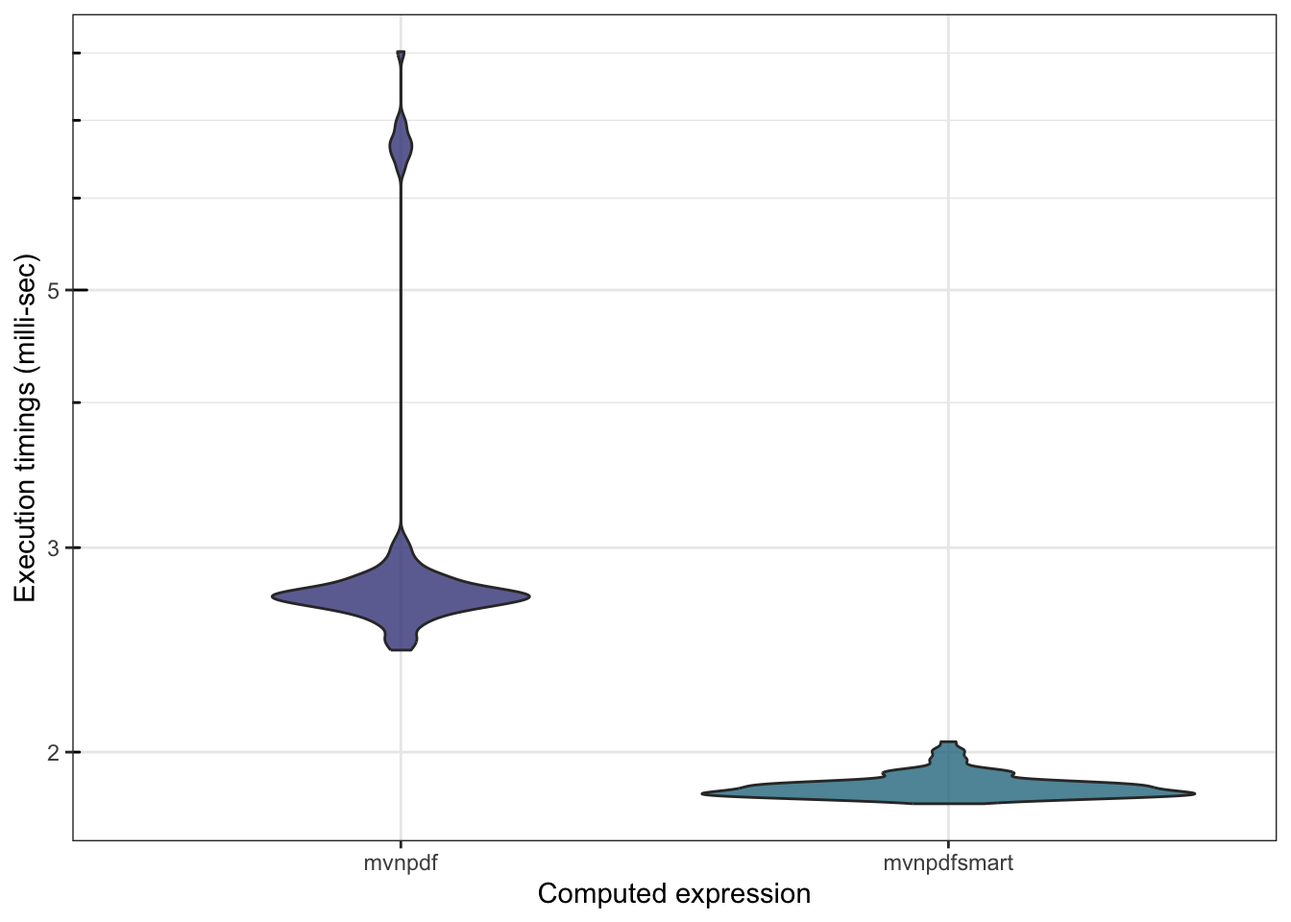
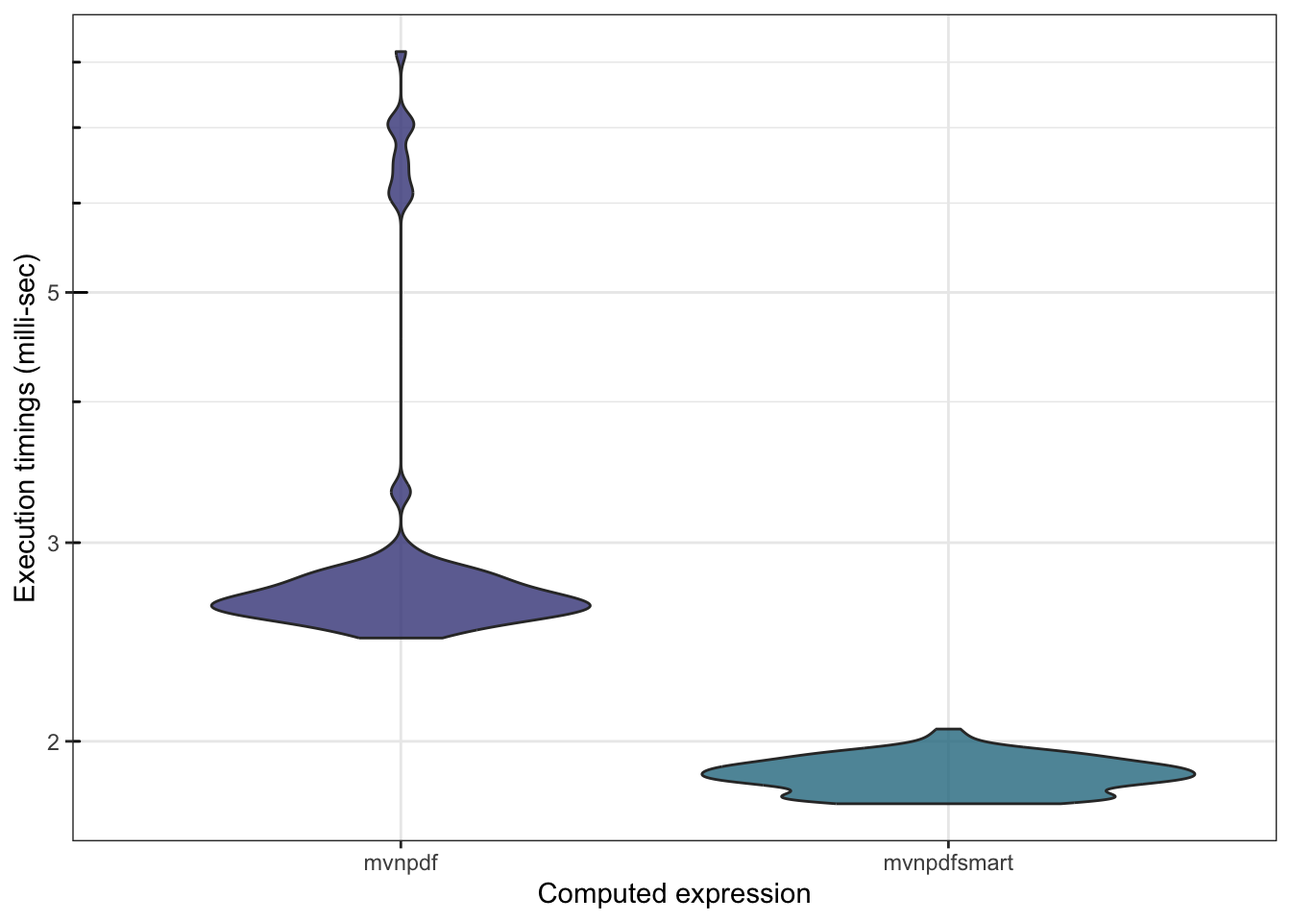
prerequisites added

diff --git a/_book/index.html b/_book/index.html
@@ -87,15 +87,25 @@ We will show you that the package is also an excellent tool for developing code.
 <li><p>a <em>C++ compiler</em> (such as <code>gcc</code> or <code>clang</code> - native on UNIX systems,
 for Windows users we recommend installing
 <a href="https://cran.r-project.org/bin/windows/Rtools/">Rtools</a>, for
-Mac users it may be necessary to install the macOS tool chain — namely <code>Xcode Command Line Tools</code> and <code>gfortran</code> — used by <svg aria-hidden="true" role="img" viewbox="0 0 581 512" style="height:1em;width:1.13em;vertical-align:-0.125em;margin-left:auto;margin-right:auto;font-size:inherit;fill:currentColor;overflow:visible;position:relative;"><path d="M581 226.6C581 119.1 450.9 32 290.5 32S0 119.1 0 226.6C0 322.4 103.3 402 239.4 418.1V480h99.1v-61.5c24.3-2.7 47.6-7.4 69.4-13.9L448 480h112l-67.4-113.7c54.5-35.4 88.4-84.9 88.4-139.7zm-466.8 14.5c0-73.5 98.9-133 220.8-133s211.9 40.7 211.9 133c0 50.1-26.5 85-70.3 106.4-2.4-1.6-4.7-2.9-6.4-3.7-10.2-5.2-27.8-10.5-27.8-10.5s86.6-6.4 86.6-92.7-90.6-87.9-90.6-87.9h-199V361c-74.1-21.5-125.2-67.1-125.2-119.9zm225.1 38.3v-55.6c57.8 0 87.8-6.8 87.8 27.3 0 36.5-38.2 28.3-87.8 28.3zm-.9 72.5H365c10.8 0 18.9 11.7 24 19.2-16.1 1.9-33 2.8-50.6 2.9v-22.1z"></path></svg> as detailed <a href="https://thecoatlessprofessor.com/software-releases/macrtools-v0.0.1-released-automatic-macos-r-compiled-toolchain-installation-from-within-r/">here</a><a class="footnote-ref" tabindex="0" data-toggle="popover" data-content='&lt;p&gt;updating and automating &lt;a href="http://thecoatlessprofessor.com/programming/r-compiler-tools-for-rcpp-on-os-x/"&gt;this toolchain installation&lt;/a&gt;&lt;/p&gt;'><sup>1</sup></a></p></li>
-</ul>
-<ul>
+Mac users it may be necessary to install the macOS tool chain as detailed <a href="%5Bici%5D(https://mac.r-project.org/tools/)">here</a></p></li>
 <li><p>the following <svg aria-hidden="true" role="img" viewbox="0 0 581 512" style="height:1em;width:1.13em;vertical-align:-0.125em;margin-left:auto;margin-right:auto;font-size:inherit;fill:currentColor;overflow:visible;position:relative;"><path d="M581 226.6C581 119.1 450.9 32 290.5 32S0 119.1 0 226.6C0 322.4 103.3 402 239.4 418.1V480h99.1v-61.5c24.3-2.7 47.6-7.4 69.4-13.9L448 480h112l-67.4-113.7c54.5-35.4 88.4-84.9 88.4-139.7zm-466.8 14.5c0-73.5 98.9-133 220.8-133s211.9 40.7 211.9 133c0 50.1-26.5 85-70.3 106.4-2.4-1.6-4.7-2.9-6.4-3.7-10.2-5.2-27.8-10.5-27.8-10.5s86.6-6.4 86.6-92.7-90.6-87.9-90.6-87.9h-199V361c-74.1-21.5-125.2-67.1-125.2-119.9zm225.1 38.3v-55.6c57.8 0 87.8-6.8 87.8 27.3 0 36.5-38.2 28.3-87.8 28.3zm-.9 72.5H365c10.8 0 18.9 11.7 24 19.2-16.1 1.9-33 2.8-50.6 2.9v-22.1z"></path></svg> packages: <code>devtools</code>, <code>future.apply</code>, <code>itertools</code>, <code>microbenchmark</code>, <code>mvtnorm</code>, <code>profvis</code>, <code>Rcpp</code>, <code>RcppArmadillo</code>, <code>roxygen2</code>, <code>testthat</code>, <code>usethis</code></p></li>
 <li><p>the software <a href="https://git-scm.com/"><em>git</em></a> which can be installed following instructions from <a href="https://happygitwithr.com/install-git.html"><em>Happy Git With R</em> by Jenny Brian</a></p></li>
 </ul>
+<p>In addition, you will need an active internet connection (e.g. through <em>eduroam</em>)</p>
+</div>
+<div id="prerequisites" class="section level2 unnumbered">
+<h2>Prerequisites<a class="anchor" aria-label="anchor" href="#prerequisites"><i class="fas fa-link"></i></a>
+</h2>
+<p>To be able to follow along this training, you must be comfortable with the following concepts:</p>
+<ul>
+<li>programing with <svg aria-hidden="true" role="img" viewbox="0 0 581 512" style="height:1em;width:1.13em;vertical-align:-0.125em;margin-left:auto;margin-right:auto;font-size:inherit;fill:currentColor;overflow:visible;position:relative;"><path d="M581 226.6C581 119.1 450.9 32 290.5 32S0 119.1 0 226.6C0 322.4 103.3 402 239.4 418.1V480h99.1v-61.5c24.3-2.7 47.6-7.4 69.4-13.9L448 480h112l-67.4-113.7c54.5-35.4 88.4-84.9 88.4-139.7zm-466.8 14.5c0-73.5 98.9-133 220.8-133s211.9 40.7 211.9 133c0 50.1-26.5 85-70.3 106.4-2.4-1.6-4.7-2.9-6.4-3.7-10.2-5.2-27.8-10.5-27.8-10.5s86.6-6.4 86.6-92.7-90.6-87.9-90.6-87.9h-199V361c-74.1-21.5-125.2-67.1-125.2-119.9zm225.1 38.3v-55.6c57.8 0 87.8-6.8 87.8 27.3 0 36.5-38.2 28.3-87.8 28.3zm-.9 72.5H365c10.8 0 18.9 11.7 24 19.2-16.1 1.9-33 2.8-50.6 2.9v-22.1z"></path></svg> within the <code>RStudio</code> IDE</li>
+<li>writing functions in <svg aria-hidden="true" role="img" viewbox="0 0 581 512" style="height:1em;width:1.13em;vertical-align:-0.125em;margin-left:auto;margin-right:auto;font-size:inherit;fill:currentColor;overflow:visible;position:relative;"><path d="M581 226.6C581 119.1 450.9 32 290.5 32S0 119.1 0 226.6C0 322.4 103.3 402 239.4 418.1V480h99.1v-61.5c24.3-2.7 47.6-7.4 69.4-13.9L448 480h112l-67.4-113.7c54.5-35.4 88.4-84.9 88.4-139.7zm-466.8 14.5c0-73.5 98.9-133 220.8-133s211.9 40.7 211.9 133c0 50.1-26.5 85-70.3 106.4-2.4-1.6-4.7-2.9-6.4-3.7-10.2-5.2-27.8-10.5-27.8-10.5s86.6-6.4 86.6-92.7-90.6-87.9-90.6-87.9h-199V361c-74.1-21.5-125.2-67.1-125.2-119.9zm225.1 38.3v-55.6c57.8 0 87.8-6.8 87.8 27.3 0 36.5-38.2 28.3-87.8 28.3zm-.9 72.5H365c10.8 0 18.9 11.7 24 19.2-16.1 1.9-33 2.8-50.6 2.9v-22.1z"></path></svg>
+</li>
+<li>control structures, particularly <em>for</em> loops</li>
+<li>the calculation of the density for a multivariate Gaussian distribution</li>
+</ul>
 </div>
 </div>
-
   <div class="chapter-nav">
 <div class="empty"></div>
 <div class="next"><a href="building-a-package.html"><span class="header-section-number">1</span> Building a  package</a></div>
@@ -104,6 +114,7 @@ Mac users it may be necessary to install the macOS tool chain — namely <code>X
       <ul class="nav navbar-nav">
 <li><a class="nav-link" href="#course-syllabus">Course syllabus</a></li>
 <li><a class="nav-link" href="#required-tools">Required tools</a></li>
+<li><a class="nav-link" href="#prerequisites">Prerequisites</a></li>
 </ul>
 
       <div class="book-extra">
@@ -120,7 +131,7 @@ Mac users it may be necessary to install the macOS tool chain — namely <code>X
 <footer class="bg-primary text-light mt-5"><div class="container"><div class="row">
 
   <div class="col-12 col-md-6 mt-3">
-    <p>"<strong>Advanced <svg aria-hidden="true" role="img" viewbox="0 0 581 512" style="height:1em;width:1.13em;vertical-align:-0.125em;margin-left:auto;margin-right:auto;font-size:inherit;fill:currentColor;overflow:visible;position:relative;"><path d="M581 226.6C581 119.1 450.9 32 290.5 32S0 119.1 0 226.6C0 322.4 103.3 402 239.4 418.1V480h99.1v-61.5c24.3-2.7 47.6-7.4 69.4-13.9L448 480h112l-67.4-113.7c54.5-35.4 88.4-84.9 88.4-139.7zm-466.8 14.5c0-73.5 98.9-133 220.8-133s211.9 40.7 211.9 133c0 50.1-26.5 85-70.3 106.4-2.4-1.6-4.7-2.9-6.4-3.7-10.2-5.2-27.8-10.5-27.8-10.5s86.6-6.4 86.6-92.7-90.6-87.9-90.6-87.9h-199V361c-74.1-21.5-125.2-67.1-125.2-119.9zm225.1 38.3v-55.6c57.8 0 87.8-6.8 87.8 27.3 0 36.5-38.2 28.3-87.8 28.3zm-.9 72.5H365c10.8 0 18.9 11.7 24 19.2-16.1 1.9-33 2.8-50.6 2.9v-22.1z"></path></svg> course</strong>: <em>Tools for software development and performance</em>" was written by <strong><em>Robin Genuer</em></strong> <a href="https://robin.genuer.fr/">🌐</a> &amp; <strong><em>Boris Hejblum</em></strong> <a href="https://borishejblum.science/">🌐</a>. It was last built on 2023-09-07.</p>
+    <p>"<strong>Advanced <svg aria-hidden="true" role="img" viewbox="0 0 581 512" style="height:1em;width:1.13em;vertical-align:-0.125em;margin-left:auto;margin-right:auto;font-size:inherit;fill:currentColor;overflow:visible;position:relative;"><path d="M581 226.6C581 119.1 450.9 32 290.5 32S0 119.1 0 226.6C0 322.4 103.3 402 239.4 418.1V480h99.1v-61.5c24.3-2.7 47.6-7.4 69.4-13.9L448 480h112l-67.4-113.7c54.5-35.4 88.4-84.9 88.4-139.7zm-466.8 14.5c0-73.5 98.9-133 220.8-133s211.9 40.7 211.9 133c0 50.1-26.5 85-70.3 106.4-2.4-1.6-4.7-2.9-6.4-3.7-10.2-5.2-27.8-10.5-27.8-10.5s86.6-6.4 86.6-92.7-90.6-87.9-90.6-87.9h-199V361c-74.1-21.5-125.2-67.1-125.2-119.9zm225.1 38.3v-55.6c57.8 0 87.8-6.8 87.8 27.3 0 36.5-38.2 28.3-87.8 28.3zm-.9 72.5H365c10.8 0 18.9 11.7 24 19.2-16.1 1.9-33 2.8-50.6 2.9v-22.1z"></path></svg> course</strong>: <em>Tools for software development and performance</em>" was written by <strong><em>Robin Genuer</em></strong> <a href="https://robin.genuer.fr/">🌐</a> &amp; <strong><em>Boris Hejblum</em></strong> <a href="https://borishejblum.science/">🌐</a>. It was last built on 2023-09-18.</p>
   </div>
 
   <div class="col-12 col-md-6 mt-3">

diff --git a/_book/measuring-and-comparing-execution-times.html b/_book/measuring-and-comparing-execution-times.html
@@ -74,14 +74,14 @@
 <code class="sourceCode R"><span><span class="va">obs</span> <span class="op">&lt;-</span> <span class="fu"><a href="https://rdrr.io/r/base/matrix.html">matrix</a></span><span class="op">(</span><span class="fu"><a href="https://rdrr.io/r/base/rep.html">rep</a></span><span class="op">(</span><span class="fl">1.96</span>, <span class="fl">2</span><span class="op">)</span>, nrow<span class="op">=</span><span class="fl">2</span>, ncol<span class="op">=</span><span class="fl">1</span><span class="op">)</span></span>
 <span><span class="fu"><a href="https://rdrr.io/r/base/system.time.html">system.time</a></span><span class="op">(</span><span class="fu">mvnpdf</span><span class="op">(</span>x<span class="op">=</span><span class="va">obs</span>, Log<span class="op">=</span><span class="cn">FALSE</span><span class="op">)</span><span class="op">)</span></span></code></pre></div>
 <pre><code>##    user  system elapsed 
-##   0.001   0.001   0.190</code></pre>
+##   0.001   0.001   0.002</code></pre>
 <p>The problem that appears in this example is that the execution is so fast that <code><a href="https://rdrr.io/r/base/system.time.html">system.time()</a></code> displays <code>0</code> (or a very close value) that will be impossible to marginally compare to a hopefully faster implementation. Also, we see that there is some variability when we run the command several times.</p>
 <p>Thus if we want to compare our code with the <code><a href="https://rdrr.io/pkg/mvtnorm/man/Mvnorm.html">mvtnorm::dmvnorm()</a></code> function, we can’t use <code><a href="https://rdrr.io/r/base/system.time.html">system.time()</a></code>:</p>
 <div class="sourceCode" id="cb11"><pre class="downlit sourceCode r">
 <code class="sourceCode R"><span><span class="va">obs</span> <span class="op">&lt;-</span> <span class="fu"><a href="https://rdrr.io/r/base/rep.html">rep</a></span><span class="op">(</span><span class="fl">1.96</span>, <span class="fl">2</span><span class="op">)</span></span>
 <span><span class="fu"><a href="https://rdrr.io/r/base/system.time.html">system.time</a></span><span class="op">(</span><span class="fu">mvtnorm</span><span class="fu">::</span><span class="fu"><a href="https://rdrr.io/pkg/mvtnorm/man/Mvnorm.html">dmvnorm</a></span><span class="op">(</span><span class="va">obs</span><span class="op">)</span><span class="op">)</span></span></code></pre></div>
 <pre><code>##    user  system elapsed 
-##   0.003   0.001   0.005</code></pre>
+##   0.003   0.002   0.016</code></pre>
 <p>We could say that we have to increase the complexity of our calculation, but there is a better way: use the <code>microbenchmark</code> package !</p>
 </div>
 <div id="compare-execution-timings-with-microbenchmark." class="section level2" number="3.2">
@@ -102,11 +102,11 @@
 <code class="sourceCode R"><span><span class="va">mb</span></span></code></pre></div>
 <pre><code>## Unit: microseconds
 ##                                           expr    min     lq     mean median
-##                 mvtnorm::dmvnorm(rep(1.96, 2)) 15.252 16.359 17.86284 17.138
-##  mvnpdf(x = matrix(rep(1.96, 2)), Log = FALSE) 13.940 15.047 18.14008 15.744
-##       uq      max neval cld
-##  18.5525   69.044  1000   a
-##  16.9740 1501.666  1000   a</code></pre>
+##                 mvtnorm::dmvnorm(rep(1.96, 2)) 15.252 16.236 17.63197 16.974
+##  mvnpdf(x = matrix(rep(1.96, 2)), Log = FALSE) 13.940 14.801 17.59228 15.375
+##      uq      max neval cld
+##  18.286   96.268  1000   a
+##  16.728 1454.352  1000   a</code></pre>
 <div class="inline-figure"><img src="AdvancedRcourse_dev_perf_files/figure-html/unnamed-chunk-13-1.png" width="672"></div>
 <p>Both <code>mvnpdf()</code> and <code>dmnvorm()</code> functions being able to take a matrix as input, we can also compare their timings in this setting:</p>
 <div class="sourceCode" id="cb17"><pre class="downlit sourceCode r">
@@ -118,11 +118,11 @@
 <span><span class="va">mb</span></span></code></pre></div>
 <pre><code>## Unit: microseconds
 ##                                                       expr     min       lq
-##         mvtnorm::dmvnorm(matrix(1.96, nrow = n, ncol = 2))  17.712  18.9010
-##  mvnpdf(x = matrix(1.96, nrow = 2, ncol = n), Log = FALSE) 204.344 210.5145
+##         mvtnorm::dmvnorm(matrix(1.96, nrow = n, ncol = 2))  17.425  18.6345
+##  mvnpdf(x = matrix(1.96, nrow = 2, ncol = n), Log = FALSE) 201.884 205.2255
 ##       mean  median       uq     max neval cld
-##   20.80176  19.557  20.3565  83.476   100  a 
-##  215.56201 213.364 217.7715 261.703   100   b</code></pre>
+##   20.52255  19.393  20.4590  93.275   100  a 
+##  209.11722 207.952 210.1865 260.186   100   b</code></pre>
 <div class="inline-figure"><img src="AdvancedRcourse_dev_perf_files/figure-html/unnamed-chunk-15-1.png" width="672"></div>
 <p>Something happened… And we will find out what exactly is causing this issue in what comes next.</p>
 
@@ -153,7 +153,7 @@
 <footer class="bg-primary text-light mt-5"><div class="container"><div class="row">
 
   <div class="col-12 col-md-6 mt-3">
-    <p>"<strong>Advanced <svg aria-hidden="true" role="img" viewbox="0 0 581 512" style="height:1em;width:1.13em;vertical-align:-0.125em;margin-left:auto;margin-right:auto;font-size:inherit;fill:currentColor;overflow:visible;position:relative;"><path d="M581 226.6C581 119.1 450.9 32 290.5 32S0 119.1 0 226.6C0 322.4 103.3 402 239.4 418.1V480h99.1v-61.5c24.3-2.7 47.6-7.4 69.4-13.9L448 480h112l-67.4-113.7c54.5-35.4 88.4-84.9 88.4-139.7zm-466.8 14.5c0-73.5 98.9-133 220.8-133s211.9 40.7 211.9 133c0 50.1-26.5 85-70.3 106.4-2.4-1.6-4.7-2.9-6.4-3.7-10.2-5.2-27.8-10.5-27.8-10.5s86.6-6.4 86.6-92.7-90.6-87.9-90.6-87.9h-199V361c-74.1-21.5-125.2-67.1-125.2-119.9zm225.1 38.3v-55.6c57.8 0 87.8-6.8 87.8 27.3 0 36.5-38.2 28.3-87.8 28.3zm-.9 72.5H365c10.8 0 18.9 11.7 24 19.2-16.1 1.9-33 2.8-50.6 2.9v-22.1z"></path></svg> course</strong>: <em>Tools for software development and performance</em>" was written by <strong><em>Robin Genuer</em></strong> <a href="https://robin.genuer.fr/">🌐</a> &amp; <strong><em>Boris Hejblum</em></strong> <a href="https://borishejblum.science/">🌐</a>. It was last built on 2023-09-07.</p>
+    <p>"<strong>Advanced <svg aria-hidden="true" role="img" viewbox="0 0 581 512" style="height:1em;width:1.13em;vertical-align:-0.125em;margin-left:auto;margin-right:auto;font-size:inherit;fill:currentColor;overflow:visible;position:relative;"><path d="M581 226.6C581 119.1 450.9 32 290.5 32S0 119.1 0 226.6C0 322.4 103.3 402 239.4 418.1V480h99.1v-61.5c24.3-2.7 47.6-7.4 69.4-13.9L448 480h112l-67.4-113.7c54.5-35.4 88.4-84.9 88.4-139.7zm-466.8 14.5c0-73.5 98.9-133 220.8-133s211.9 40.7 211.9 133c0 50.1-26.5 85-70.3 106.4-2.4-1.6-4.7-2.9-6.4-3.7-10.2-5.2-27.8-10.5-27.8-10.5s86.6-6.4 86.6-92.7-90.6-87.9-90.6-87.9h-199V361c-74.1-21.5-125.2-67.1-125.2-119.9zm225.1 38.3v-55.6c57.8 0 87.8-6.8 87.8 27.3 0 36.5-38.2 28.3-87.8 28.3zm-.9 72.5H365c10.8 0 18.9 11.7 24 19.2-16.1 1.9-33 2.8-50.6 2.9v-22.1z"></path></svg> course</strong>: <em>Tools for software development and performance</em>" was written by <strong><em>Robin Genuer</em></strong> <a href="https://robin.genuer.fr/">🌐</a> &amp; <strong><em>Boris Hejblum</em></strong> <a href="https://borishejblum.science/">🌐</a>. It was last built on 2023-09-18.</p>
   </div>
 
   <div class="col-12 col-md-6 mt-3">

diff --git a/_book/profiling-code.html b/_book/profiling-code.html
@@ -91,11 +91,11 @@
 <span><span class="va">mb</span></span></code></pre></div>
 <pre><code>## Unit: milliseconds
 ##                                                            expr      min
-##       mvnpdf(x = matrix(1.96, nrow = 2, ncol = n), Log = FALSE) 2.448274
-##  mvnpdfsmart(x = matrix(1.96, nrow = 2, ncol = n), Log = FALSE) 1.805353
+##       mvnpdf(x = matrix(1.96, nrow = 2, ncol = n), Log = FALSE) 2.469471
+##  mvnpdfsmart(x = matrix(1.96, nrow = 2, ncol = n), Log = FALSE) 1.760704
 ##        lq     mean   median       uq      max neval cld
-##  2.679104 3.093750 2.731727 2.814998 8.021814   100  a 
-##  1.838850 1.870054 1.860375 1.882638 2.041595   100   b</code></pre>
+##  2.602332 3.053360 2.671355 2.801981 8.173883   100  a 
+##  1.818473 1.867127 1.867017 1.911092 2.050697   100   b</code></pre>
 <div class="inline-figure"><img src="AdvancedRcourse_dev_perf_files/figure-html/unnamed-chunk-20-1.png" width="672"></div>
 <p>We can also check whether <code>mvnpdfsmart</code> becomes competitive with <code><a href="https://rdrr.io/pkg/mvtnorm/man/Mvnorm.html">dmvnorm()</a></code>:</p>
 <div class="sourceCode" id="cb23"><pre class="downlit sourceCode r">
@@ -107,13 +107,13 @@
 <span><span class="va">mb</span></span></code></pre></div>
 <pre><code>## Unit: microseconds
 ##                                                            expr      min
-##              mvtnorm::dmvnorm(matrix(1.96, nrow = n, ncol = 2))   33.292
-##       mvnpdf(x = matrix(1.96, nrow = 2, ncol = n), Log = FALSE) 2411.497
-##  mvnpdfsmart(x = matrix(1.96, nrow = 2, ncol = n), Log = FALSE) 1753.980
-##        lq       mean   median        uq      max neval cld
-##    40.959   50.96136   47.355   56.5595   90.200   100 a  
-##  2573.570 2965.72926 2643.824 2747.0410 6865.983   100  b 
-##  1780.733 1821.70503 1803.221 1850.3915 1999.324   100   c</code></pre>
+##              mvtnorm::dmvnorm(matrix(1.96, nrow = n, ncol = 2))   32.431
+##       mvnpdf(x = matrix(1.96, nrow = 2, ncol = n), Log = FALSE) 2360.862
+##  mvnpdfsmart(x = matrix(1.96, nrow = 2, ncol = n), Log = FALSE) 1753.365
+##         lq       mean    median       uq      max neval cld
+##    37.2485   46.48211   42.7835   54.817   77.736   100 a  
+##  2484.8050 2902.97999 2615.1030 2706.861 6452.088   100  b 
+##  1770.5030 1809.08728 1789.9370 1840.285 1967.836   100   c</code></pre>
 <div class="inline-figure"><img src="AdvancedRcourse_dev_perf_files/figure-html/unnamed-chunk-22-1.png" width="672"></div>
 <p>There is still work to be done…</p>
 </div>
@@ -138,15 +138,15 @@
 <span><span class="va">mb</span></span></code></pre></div>
 <pre><code>## Unit: microseconds
 ##                                                            expr      min
-##              mvtnorm::dmvnorm(matrix(1.96, nrow = n, ncol = 2))   32.718
-##       mvnpdf(x = matrix(1.96, nrow = 2, ncol = n), Log = FALSE) 2371.686
-##  mvnpdfsmart(x = matrix(1.96, nrow = 2, ncol = n), Log = FALSE) 1755.825
-##  mvnpdfoptim(x = matrix(1.96, nrow = 2, ncol = n), Log = FALSE) 1325.202
-##        lq       mean    median        uq       max neval  cld
-##    39.155   48.44642   45.7355   54.9195    80.442   100 a   
-##  2526.502 2916.34845 2650.1785 2735.9710 10237.577   100  b  
-##  1793.094 1904.47829 1819.7440 1863.5115  5424.505   100   c 
-##  1358.802 1435.15949 1387.0915 1427.6200  4689.047   100    d</code></pre>
+##              mvtnorm::dmvnorm(matrix(1.96, nrow = n, ncol = 2))   33.374
+##       mvnpdf(x = matrix(1.96, nrow = 2, ncol = n), Log = FALSE) 2352.252
+##  mvnpdfsmart(x = matrix(1.96, nrow = 2, ncol = n), Log = FALSE) 1759.474
+##  mvnpdfoptim(x = matrix(1.96, nrow = 2, ncol = n), Log = FALSE) 1324.792
+##         lq       mean   median       uq      max neval  cld
+##    40.5285   47.74737   46.904   53.546   77.818   100 a   
+##  2529.7000 2817.73566 2615.595 2687.448 6892.674   100  b  
+##  1778.4775 1876.89390 1801.068 1834.197 4993.390   100   c 
+##  1355.9110 1495.23105 1372.372 1414.049 8446.246   100    d</code></pre>
 <div class="inline-figure"><img src="AdvancedRcourse_dev_perf_files/figure-html/unnamed-chunk-25-1.png" width="672"></div>
 <p>Finally, we can profile tthe <code><a href="https://rdrr.io/pkg/mvtnorm/man/Mvnorm.html">dmvnorm()</a></code> function:</p>
 <div class="sourceCode" id="cb28"><pre class="downlit sourceCode r">
@@ -181,7 +181,7 @@
 <footer class="bg-primary text-light mt-5"><div class="container"><div class="row">
 
   <div class="col-12 col-md-6 mt-3">
-    <p>"<strong>Advanced <svg aria-hidden="true" role="img" viewbox="0 0 581 512" style="height:1em;width:1.13em;vertical-align:-0.125em;margin-left:auto;margin-right:auto;font-size:inherit;fill:currentColor;overflow:visible;position:relative;"><path d="M581 226.6C581 119.1 450.9 32 290.5 32S0 119.1 0 226.6C0 322.4 103.3 402 239.4 418.1V480h99.1v-61.5c24.3-2.7 47.6-7.4 69.4-13.9L448 480h112l-67.4-113.7c54.5-35.4 88.4-84.9 88.4-139.7zm-466.8 14.5c0-73.5 98.9-133 220.8-133s211.9 40.7 211.9 133c0 50.1-26.5 85-70.3 106.4-2.4-1.6-4.7-2.9-6.4-3.7-10.2-5.2-27.8-10.5-27.8-10.5s86.6-6.4 86.6-92.7-90.6-87.9-90.6-87.9h-199V361c-74.1-21.5-125.2-67.1-125.2-119.9zm225.1 38.3v-55.6c57.8 0 87.8-6.8 87.8 27.3 0 36.5-38.2 28.3-87.8 28.3zm-.9 72.5H365c10.8 0 18.9 11.7 24 19.2-16.1 1.9-33 2.8-50.6 2.9v-22.1z"></path></svg> course</strong>: <em>Tools for software development and performance</em>" was written by <strong><em>Robin Genuer</em></strong> <a href="https://robin.genuer.fr/">🌐</a> &amp; <strong><em>Boris Hejblum</em></strong> <a href="https://borishejblum.science/">🌐</a>. It was last built on 2023-09-07.</p>
+    <p>"<strong>Advanced <svg aria-hidden="true" role="img" viewbox="0 0 581 512" style="height:1em;width:1.13em;vertical-align:-0.125em;margin-left:auto;margin-right:auto;font-size:inherit;fill:currentColor;overflow:visible;position:relative;"><path d="M581 226.6C581 119.1 450.9 32 290.5 32S0 119.1 0 226.6C0 322.4 103.3 402 239.4 418.1V480h99.1v-61.5c24.3-2.7 47.6-7.4 69.4-13.9L448 480h112l-67.4-113.7c54.5-35.4 88.4-84.9 88.4-139.7zm-466.8 14.5c0-73.5 98.9-133 220.8-133s211.9 40.7 211.9 133c0 50.1-26.5 85-70.3 106.4-2.4-1.6-4.7-2.9-6.4-3.7-10.2-5.2-27.8-10.5-27.8-10.5s86.6-6.4 86.6-92.7-90.6-87.9-90.6-87.9h-199V361c-74.1-21.5-125.2-67.1-125.2-119.9zm225.1 38.3v-55.6c57.8 0 87.8-6.8 87.8 27.3 0 36.5-38.2 28.3-87.8 28.3zm-.9 72.5H365c10.8 0 18.9 11.7 24 19.2-16.1 1.9-33 2.8-50.6 2.9v-22.1z"></path></svg> course</strong>: <em>Tools for software development and performance</em>" was written by <strong><em>Robin Genuer</em></strong> <a href="https://robin.genuer.fr/">🌐</a> &amp; <strong><em>Boris Hejblum</em></strong> <a href="https://borishejblum.science/">🌐</a>. It was last built on 2023-09-18.</p>
   </div>
 
   <div class="col-12 col-md-6 mt-3">

diff --git a/_book/rcpp-or-how-to-easily-embed-c-code-into-a-package.html b/_book/rcpp-or-how-to-easily-embed-c-code-into-a-package.html
@@ -118,17 +118,17 @@ package:</p></li>
 <span><span class="va">mb</span></span></code></pre></div>
 <pre><code>## Unit: microseconds
 ##                                                            expr      min
-##              mvtnorm::dmvnorm(matrix(1.96, nrow = n, ncol = 2))   34.481
-##       mvnpdf(x = matrix(1.96, nrow = 2, ncol = n), Log = FALSE) 2408.873
-##  mvnpdfsmart(x = matrix(1.96, nrow = 2, ncol = n), Log = FALSE) 1769.683
-##  mvnpdfoptim(x = matrix(1.96, nrow = 2, ncol = n), Log = FALSE) 1327.662
-##  mvnpdf_invC(x = matrix(1.96, nrow = 2, ncol = n), Log = FALSE) 1755.825
-##         lq       mean    median       uq      max neval  cld
-##    44.3415   54.29343   52.7055   62.689  101.270   100 a   
-##  2539.0890 2739.14235 2641.0150 2709.567 6651.430   100  b  
-##  1803.6515 1948.97026 1823.5775 1850.043 5167.845   100   c 
-##  1366.9810 1506.22602 1388.4445 1443.938 5073.504   100    d
-##  1805.3120 1940.75755 1833.7455 1868.124 5588.136   100   c</code></pre>
+##              mvtnorm::dmvnorm(matrix(1.96, nrow = n, ncol = 2))   33.333
+##       mvnpdf(x = matrix(1.96, nrow = 2, ncol = n), Log = FALSE) 2339.829
+##  mvnpdfsmart(x = matrix(1.96, nrow = 2, ncol = n), Log = FALSE) 1745.165
+##  mvnpdfoptim(x = matrix(1.96, nrow = 2, ncol = n), Log = FALSE) 1324.382
+##  mvnpdf_invC(x = matrix(1.96, nrow = 2, ncol = n), Log = FALSE) 1746.641
+##         lq      mean    median        uq      max neval  cld
+##    41.4305   48.8556   47.9495   53.5665   87.002   100 a   
+##  2587.6535 2824.7061 2650.2605 2696.6930 7870.565   100  b  
+##  1781.0400 1877.3006 1799.6950 1831.6340 5698.180   100   c 
+##  1353.1640 1536.2729 1371.9625 1397.3620 5318.397   100    d
+##  1774.1725 1841.7442 1795.2055 1819.1700 5633.031   100   c</code></pre>
 <div class="inline-figure"><img src="AdvancedRcourse_dev_perf_files/figure-html/unnamed-chunk-31-1.png" width="672"></div>
 <div class="sourceCode" id="cb33"><pre class="downlit sourceCode r">
 <code class="sourceCode R"><span><span class="fu">profvis</span><span class="fu">::</span><span class="fu"><a href="https://rdrr.io/pkg/profvis/man/profvis.html">profvis</a></span><span class="op">(</span><span class="fu">mvnpdfoptim</span><span class="op">(</span>x<span class="op">=</span><span class="fu"><a href="https://rdrr.io/r/base/matrix.html">matrix</a></span><span class="op">(</span><span class="fl">1.96</span>, </span>
@@ -171,13 +171,13 @@ package:</p></li>
 ##  mvnpdfsmartC(x = matrix(1.96, nrow = 2, ncol = n), mean = rep(0,      2), varcovM = diag(2), Log = FALSE)
 ##  mvnpdfoptimC(x = matrix(1.96, nrow = 2, ncol = n), mean = rep(0,      2), varcovM = diag(2), Log = FALSE)
 ##       min        lq       mean    median        uq      max neval  cld
-##    33.456   42.7015   52.77438   51.8035   60.9260   89.257   100 a   
-##  2402.067 2541.1800 2819.27685 2662.1710 2741.7315 6399.690   100  b  
-##  1758.531 1800.3715 1953.08543 1825.6275 1875.2375 5266.778   100   c 
-##  1318.109 1366.9605 1433.80854 1387.7680 1429.8545 4905.322   100    d
-##  1751.725 1790.9210 1885.26774 1810.2730 1842.0480 5298.922   100   c 
-##    38.581   41.7175   45.24801   43.9930   46.7605   83.722   100 a   
-##    27.101   29.9915   34.62286   33.9070   37.6175   81.631   100 a</code></pre>
+##    33.497   39.7085   47.75680   47.4165   54.1815   73.800   100 a   
+##  2360.534 2475.3750 2692.14856 2587.7560 2689.3540 5871.405   100  b  
+##  1761.565 1794.7955 1885.20583 1817.2635 1863.9215 4638.125   100   c 
+##  1330.696 1365.0745 1486.30125 1384.3240 1419.8505 5020.204   100    d
+##  1754.923 1789.7730 1954.25844 1808.3050 1851.1705 5425.079   100   c 
+##    38.991   41.5330   44.13199   43.6240   45.6740   77.408   100 a   
+##    26.691   29.4585   32.92218   32.3490   33.9480   89.011   100 a</code></pre>
 <div class="inline-figure"><img src="AdvancedRcourse_dev_perf_files/figure-html/unnamed-chunk-34-1.png" width="672"></div>
 <p>Note that <code>Rcpp</code> functions can be used outside of a package architecture thanks to the <code><a href="https://rdrr.io/pkg/Rcpp/man/sourceCpp.html">Rcpp::sourceCpp()</a></code> function. But, as we have seen that it is always desirable to manage all of one’s code inside a package, it is unlikely that you will need this !</p>
 </div>
@@ -218,7 +218,7 @@ package:</p></li>
 <footer class="bg-primary text-light mt-5"><div class="container"><div class="row">
 
   <div class="col-12 col-md-6 mt-3">
-    <p>"<strong>Advanced <svg aria-hidden="true" role="img" viewbox="0 0 581 512" style="height:1em;width:1.13em;vertical-align:-0.125em;margin-left:auto;margin-right:auto;font-size:inherit;fill:currentColor;overflow:visible;position:relative;"><path d="M581 226.6C581 119.1 450.9 32 290.5 32S0 119.1 0 226.6C0 322.4 103.3 402 239.4 418.1V480h99.1v-61.5c24.3-2.7 47.6-7.4 69.4-13.9L448 480h112l-67.4-113.7c54.5-35.4 88.4-84.9 88.4-139.7zm-466.8 14.5c0-73.5 98.9-133 220.8-133s211.9 40.7 211.9 133c0 50.1-26.5 85-70.3 106.4-2.4-1.6-4.7-2.9-6.4-3.7-10.2-5.2-27.8-10.5-27.8-10.5s86.6-6.4 86.6-92.7-90.6-87.9-90.6-87.9h-199V361c-74.1-21.5-125.2-67.1-125.2-119.9zm225.1 38.3v-55.6c57.8 0 87.8-6.8 87.8 27.3 0 36.5-38.2 28.3-87.8 28.3zm-.9 72.5H365c10.8 0 18.9 11.7 24 19.2-16.1 1.9-33 2.8-50.6 2.9v-22.1z"></path></svg> course</strong>: <em>Tools for software development and performance</em>" was written by <strong><em>Robin Genuer</em></strong> <a href="https://robin.genuer.fr/">🌐</a> &amp; <strong><em>Boris Hejblum</em></strong> <a href="https://borishejblum.science/">🌐</a>. It was last built on 2023-09-07.</p>
+    <p>"<strong>Advanced <svg aria-hidden="true" role="img" viewbox="0 0 581 512" style="height:1em;width:1.13em;vertical-align:-0.125em;margin-left:auto;margin-right:auto;font-size:inherit;fill:currentColor;overflow:visible;position:relative;"><path d="M581 226.6C581 119.1 450.9 32 290.5 32S0 119.1 0 226.6C0 322.4 103.3 402 239.4 418.1V480h99.1v-61.5c24.3-2.7 47.6-7.4 69.4-13.9L448 480h112l-67.4-113.7c54.5-35.4 88.4-84.9 88.4-139.7zm-466.8 14.5c0-73.5 98.9-133 220.8-133s211.9 40.7 211.9 133c0 50.1-26.5 85-70.3 106.4-2.4-1.6-4.7-2.9-6.4-3.7-10.2-5.2-27.8-10.5-27.8-10.5s86.6-6.4 86.6-92.7-90.6-87.9-90.6-87.9h-199V361c-74.1-21.5-125.2-67.1-125.2-119.9zm225.1 38.3v-55.6c57.8 0 87.8-6.8 87.8 27.3 0 36.5-38.2 28.3-87.8 28.3zm-.9 72.5H365c10.8 0 18.9 11.7 24 19.2-16.1 1.9-33 2.8-50.6 2.9v-22.1z"></path></svg> course</strong>: <em>Tools for software development and performance</em>" was written by <strong><em>Robin Genuer</em></strong> <a href="https://robin.genuer.fr/">🌐</a> &amp; <strong><em>Boris Hejblum</em></strong> <a href="https://borishejblum.science/">🌐</a>. It was last built on 2023-09-18.</p>
   </div>
 
   <div class="col-12 col-md-6 mt-3">

diff --git a/_book/code-parallelization.html b/_book/code-parallelization.html
@@ -141,7 +141,7 @@
 <span><span class="op">}</span></span>
 <span><span class="fu"><a href="https://rdrr.io/r/base/system.time.html">system.time</a></span><span class="op">(</span><span class="fu">colmedian_apply</span><span class="op">(</span><span class="va">x</span><span class="op">)</span><span class="op">)</span></span></code></pre></div>
 <pre><code>##    user  system elapsed 
-##   1.188   0.007   1.196</code></pre>
+##   1.175   0.004   1.178</code></pre>
 <p>In reality, a (good) <code>for</code> loop is no slower – provided it is nicely programmed:</p>
 <div class="sourceCode" id="cb41"><pre class="downlit sourceCode r">
 <code class="sourceCode R"><span><span class="va">colmedian_for</span> <span class="op">&lt;-</span> <span class="kw">function</span><span class="op">(</span><span class="va">x</span><span class="op">)</span><span class="op">{</span></span>
@@ -153,7 +153,7 @@
 <span><span class="op">}</span></span>
 <span><span class="fu"><a href="https://rdrr.io/r/base/system.time.html">system.time</a></span><span class="op">(</span><span class="fu">colmedian_for</span><span class="op">(</span><span class="va">x</span><span class="op">)</span><span class="op">)</span></span></code></pre></div>
 <pre><code>##    user  system elapsed 
-##   1.143   0.003   1.147</code></pre>
+##   1.140   0.003   1.144</code></pre>
 <blockquote>
 <p>👉 <strong><em>Your turn !</em></strong>
 Try to further improve this computation time through parallelizing your code for each of the 100,000 variables. Is there a gain in computation time?</p>
@@ -330,7 +330,7 @@ iterators::nextElem(myiter)
 <footer class="bg-primary text-light mt-5"><div class="container"><div class="row">
 
   <div class="col-12 col-md-6 mt-3">
-    <p>"<strong>Advanced <svg aria-hidden="true" role="img" viewbox="0 0 581 512" style="height:1em;width:1.13em;vertical-align:-0.125em;margin-left:auto;margin-right:auto;font-size:inherit;fill:currentColor;overflow:visible;position:relative;"><path d="M581 226.6C581 119.1 450.9 32 290.5 32S0 119.1 0 226.6C0 322.4 103.3 402 239.4 418.1V480h99.1v-61.5c24.3-2.7 47.6-7.4 69.4-13.9L448 480h112l-67.4-113.7c54.5-35.4 88.4-84.9 88.4-139.7zm-466.8 14.5c0-73.5 98.9-133 220.8-133s211.9 40.7 211.9 133c0 50.1-26.5 85-70.3 106.4-2.4-1.6-4.7-2.9-6.4-3.7-10.2-5.2-27.8-10.5-27.8-10.5s86.6-6.4 86.6-92.7-90.6-87.9-90.6-87.9h-199V361c-74.1-21.5-125.2-67.1-125.2-119.9zm225.1 38.3v-55.6c57.8 0 87.8-6.8 87.8 27.3 0 36.5-38.2 28.3-87.8 28.3zm-.9 72.5H365c10.8 0 18.9 11.7 24 19.2-16.1 1.9-33 2.8-50.6 2.9v-22.1z"></path></svg> course</strong>: <em>Tools for software development and performance</em>" was written by <strong><em>Robin Genuer</em></strong> <a href="https://robin.genuer.fr/">🌐</a> &amp; <strong><em>Boris Hejblum</em></strong> <a href="https://borishejblum.science/">🌐</a>. It was last built on 2023-09-07.</p>
+    <p>"<strong>Advanced <svg aria-hidden="true" role="img" viewbox="0 0 581 512" style="height:1em;width:1.13em;vertical-align:-0.125em;margin-left:auto;margin-right:auto;font-size:inherit;fill:currentColor;overflow:visible;position:relative;"><path d="M581 226.6C581 119.1 450.9 32 290.5 32S0 119.1 0 226.6C0 322.4 103.3 402 239.4 418.1V480h99.1v-61.5c24.3-2.7 47.6-7.4 69.4-13.9L448 480h112l-67.4-113.7c54.5-35.4 88.4-84.9 88.4-139.7zm-466.8 14.5c0-73.5 98.9-133 220.8-133s211.9 40.7 211.9 133c0 50.1-26.5 85-70.3 106.4-2.4-1.6-4.7-2.9-6.4-3.7-10.2-5.2-27.8-10.5-27.8-10.5s86.6-6.4 86.6-92.7-90.6-87.9-90.6-87.9h-199V361c-74.1-21.5-125.2-67.1-125.2-119.9zm225.1 38.3v-55.6c57.8 0 87.8-6.8 87.8 27.3 0 36.5-38.2 28.3-87.8 28.3zm-.9 72.5H365c10.8 0 18.9 11.7 24 19.2-16.1 1.9-33 2.8-50.6 2.9v-22.1z"></path></svg> course</strong>: <em>Tools for software development and performance</em>" was written by <strong><em>Robin Genuer</em></strong> <a href="https://robin.genuer.fr/">🌐</a> &amp; <strong><em>Boris Hejblum</em></strong> <a href="https://borishejblum.science/">🌐</a>. It was last built on 2023-09-18.</p>
   </div>
 
   <div class="col-12 col-md-6 mt-3">

diff --git a/_book/further-reading.html b/_book/further-reading.html
@@ -75,12 +75,6 @@
 <li><p>the online book <a href="https://teuder.github.io/rcpp4everyone_en/">Rcpp for everyone</a> by Masaki E. Tsuda is also very good.</p></li>
 </ul>
 </div>
-
-
-
-
-
-
   <div class="chapter-nav">
 <div class="prev"><a href="take-home-messages.html"><span class="header-section-number">7</span> Take-home message(s)</a></div>
 <div class="empty"></div>
@@ -102,7 +96,7 @@
 <footer class="bg-primary text-light mt-5"><div class="container"><div class="row">
 
   <div class="col-12 col-md-6 mt-3">
-    <p>"<strong>Advanced <svg aria-hidden="true" role="img" viewbox="0 0 581 512" style="height:1em;width:1.13em;vertical-align:-0.125em;margin-left:auto;margin-right:auto;font-size:inherit;fill:currentColor;overflow:visible;position:relative;"><path d="M581 226.6C581 119.1 450.9 32 290.5 32S0 119.1 0 226.6C0 322.4 103.3 402 239.4 418.1V480h99.1v-61.5c24.3-2.7 47.6-7.4 69.4-13.9L448 480h112l-67.4-113.7c54.5-35.4 88.4-84.9 88.4-139.7zm-466.8 14.5c0-73.5 98.9-133 220.8-133s211.9 40.7 211.9 133c0 50.1-26.5 85-70.3 106.4-2.4-1.6-4.7-2.9-6.4-3.7-10.2-5.2-27.8-10.5-27.8-10.5s86.6-6.4 86.6-92.7-90.6-87.9-90.6-87.9h-199V361c-74.1-21.5-125.2-67.1-125.2-119.9zm225.1 38.3v-55.6c57.8 0 87.8-6.8 87.8 27.3 0 36.5-38.2 28.3-87.8 28.3zm-.9 72.5H365c10.8 0 18.9 11.7 24 19.2-16.1 1.9-33 2.8-50.6 2.9v-22.1z"></path></svg> course</strong>: <em>Tools for software development and performance</em>" was written by <strong><em>Robin Genuer</em></strong> <a href="https://robin.genuer.fr/">🌐</a> &amp; <strong><em>Boris Hejblum</em></strong> <a href="https://borishejblum.science/">🌐</a>. It was last built on 2023-09-07.</p>
+    <p>"<strong>Advanced <svg aria-hidden="true" role="img" viewbox="0 0 581 512" style="height:1em;width:1.13em;vertical-align:-0.125em;margin-left:auto;margin-right:auto;font-size:inherit;fill:currentColor;overflow:visible;position:relative;"><path d="M581 226.6C581 119.1 450.9 32 290.5 32S0 119.1 0 226.6C0 322.4 103.3 402 239.4 418.1V480h99.1v-61.5c24.3-2.7 47.6-7.4 69.4-13.9L448 480h112l-67.4-113.7c54.5-35.4 88.4-84.9 88.4-139.7zm-466.8 14.5c0-73.5 98.9-133 220.8-133s211.9 40.7 211.9 133c0 50.1-26.5 85-70.3 106.4-2.4-1.6-4.7-2.9-6.4-3.7-10.2-5.2-27.8-10.5-27.8-10.5s86.6-6.4 86.6-92.7-90.6-87.9-90.6-87.9h-199V361c-74.1-21.5-125.2-67.1-125.2-119.9zm225.1 38.3v-55.6c57.8 0 87.8-6.8 87.8 27.3 0 36.5-38.2 28.3-87.8 28.3zm-.9 72.5H365c10.8 0 18.9 11.7 24 19.2-16.1 1.9-33 2.8-50.6 2.9v-22.1z"></path></svg> course</strong>: <em>Tools for software development and performance</em>" was written by <strong><em>Robin Genuer</em></strong> <a href="https://robin.genuer.fr/">🌐</a> &amp; <strong><em>Boris Hejblum</em></strong> <a href="https://borishejblum.science/">🌐</a>. It was last built on 2023-09-18.</p>
   </div>
 
   <div class="col-12 col-md-6 mt-3">

diff --git a/_book/building-a-package.html b/_book/building-a-package.html
@@ -309,7 +309,7 @@ For more details, see Hadley Wickham’s recommanded pipeline in his book <a hre
 <footer class="bg-primary text-light mt-5"><div class="container"><div class="row">
 
   <div class="col-12 col-md-6 mt-3">
-    <p>"<strong>Advanced <svg aria-hidden="true" role="img" viewbox="0 0 581 512" style="height:1em;width:1.13em;vertical-align:-0.125em;margin-left:auto;margin-right:auto;font-size:inherit;fill:currentColor;overflow:visible;position:relative;"><path d="M581 226.6C581 119.1 450.9 32 290.5 32S0 119.1 0 226.6C0 322.4 103.3 402 239.4 418.1V480h99.1v-61.5c24.3-2.7 47.6-7.4 69.4-13.9L448 480h112l-67.4-113.7c54.5-35.4 88.4-84.9 88.4-139.7zm-466.8 14.5c0-73.5 98.9-133 220.8-133s211.9 40.7 211.9 133c0 50.1-26.5 85-70.3 106.4-2.4-1.6-4.7-2.9-6.4-3.7-10.2-5.2-27.8-10.5-27.8-10.5s86.6-6.4 86.6-92.7-90.6-87.9-90.6-87.9h-199V361c-74.1-21.5-125.2-67.1-125.2-119.9zm225.1 38.3v-55.6c57.8 0 87.8-6.8 87.8 27.3 0 36.5-38.2 28.3-87.8 28.3zm-.9 72.5H365c10.8 0 18.9 11.7 24 19.2-16.1 1.9-33 2.8-50.6 2.9v-22.1z"></path></svg> course</strong>: <em>Tools for software development and performance</em>" was written by <strong><em>Robin Genuer</em></strong> <a href="https://robin.genuer.fr/">🌐</a> &amp; <strong><em>Boris Hejblum</em></strong> <a href="https://borishejblum.science/">🌐</a>. It was last built on 2023-09-07.</p>
+    <p>"<strong>Advanced <svg aria-hidden="true" role="img" viewbox="0 0 581 512" style="height:1em;width:1.13em;vertical-align:-0.125em;margin-left:auto;margin-right:auto;font-size:inherit;fill:currentColor;overflow:visible;position:relative;"><path d="M581 226.6C581 119.1 450.9 32 290.5 32S0 119.1 0 226.6C0 322.4 103.3 402 239.4 418.1V480h99.1v-61.5c24.3-2.7 47.6-7.4 69.4-13.9L448 480h112l-67.4-113.7c54.5-35.4 88.4-84.9 88.4-139.7zm-466.8 14.5c0-73.5 98.9-133 220.8-133s211.9 40.7 211.9 133c0 50.1-26.5 85-70.3 106.4-2.4-1.6-4.7-2.9-6.4-3.7-10.2-5.2-27.8-10.5-27.8-10.5s86.6-6.4 86.6-92.7-90.6-87.9-90.6-87.9h-199V361c-74.1-21.5-125.2-67.1-125.2-119.9zm225.1 38.3v-55.6c57.8 0 87.8-6.8 87.8 27.3 0 36.5-38.2 28.3-87.8 28.3zm-.9 72.5H365c10.8 0 18.9 11.7 24 19.2-16.1 1.9-33 2.8-50.6 2.9v-22.1z"></path></svg> course</strong>: <em>Tools for software development and performance</em>" was written by <strong><em>Robin Genuer</em></strong> <a href="https://robin.genuer.fr/">🌐</a> &amp; <strong><em>Boris Hejblum</em></strong> <a href="https://borishejblum.science/">🌐</a>. It was last built on 2023-09-18.</p>
   </div>
 
   <div class="col-12 col-md-6 mt-3">

diff --git a/_book/404.html b/_book/404.html
@@ -79,7 +79,7 @@ the table of contents to find the page you are looking for.</p>
 <footer class="bg-primary text-light mt-5"><div class="container"><div class="row">
 
   <div class="col-12 col-md-6 mt-3">
-    <p>"<strong>Advanced <svg aria-hidden="true" role="img" viewbox="0 0 581 512" style="height:1em;width:1.13em;vertical-align:-0.125em;margin-left:auto;margin-right:auto;font-size:inherit;fill:currentColor;overflow:visible;position:relative;"><path d="M581 226.6C581 119.1 450.9 32 290.5 32S0 119.1 0 226.6C0 322.4 103.3 402 239.4 418.1V480h99.1v-61.5c24.3-2.7 47.6-7.4 69.4-13.9L448 480h112l-67.4-113.7c54.5-35.4 88.4-84.9 88.4-139.7zm-466.8 14.5c0-73.5 98.9-133 220.8-133s211.9 40.7 211.9 133c0 50.1-26.5 85-70.3 106.4-2.4-1.6-4.7-2.9-6.4-3.7-10.2-5.2-27.8-10.5-27.8-10.5s86.6-6.4 86.6-92.7-90.6-87.9-90.6-87.9h-199V361c-74.1-21.5-125.2-67.1-125.2-119.9zm225.1 38.3v-55.6c57.8 0 87.8-6.8 87.8 27.3 0 36.5-38.2 28.3-87.8 28.3zm-.9 72.5H365c10.8 0 18.9 11.7 24 19.2-16.1 1.9-33 2.8-50.6 2.9v-22.1z"></path></svg> course</strong>: <em>Tools for software development and performance</em>" was written by <strong><em>Robin Genuer</em></strong> <a href="https://robin.genuer.fr/">🌐</a> &amp; <strong><em>Boris Hejblum</em></strong> <a href="https://borishejblum.science/">🌐</a>. It was last built on 2023-09-07.</p>
+    <p>"<strong>Advanced <svg aria-hidden="true" role="img" viewbox="0 0 581 512" style="height:1em;width:1.13em;vertical-align:-0.125em;margin-left:auto;margin-right:auto;font-size:inherit;fill:currentColor;overflow:visible;position:relative;"><path d="M581 226.6C581 119.1 450.9 32 290.5 32S0 119.1 0 226.6C0 322.4 103.3 402 239.4 418.1V480h99.1v-61.5c24.3-2.7 47.6-7.4 69.4-13.9L448 480h112l-67.4-113.7c54.5-35.4 88.4-84.9 88.4-139.7zm-466.8 14.5c0-73.5 98.9-133 220.8-133s211.9 40.7 211.9 133c0 50.1-26.5 85-70.3 106.4-2.4-1.6-4.7-2.9-6.4-3.7-10.2-5.2-27.8-10.5-27.8-10.5s86.6-6.4 86.6-92.7-90.6-87.9-90.6-87.9h-199V361c-74.1-21.5-125.2-67.1-125.2-119.9zm225.1 38.3v-55.6c57.8 0 87.8-6.8 87.8 27.3 0 36.5-38.2 28.3-87.8 28.3zm-.9 72.5H365c10.8 0 18.9 11.7 24 19.2-16.1 1.9-33 2.8-50.6 2.9v-22.1z"></path></svg> course</strong>: <em>Tools for software development and performance</em>" was written by <strong><em>Robin Genuer</em></strong> <a href="https://robin.genuer.fr/">🌐</a> &amp; <strong><em>Boris Hejblum</em></strong> <a href="https://borishejblum.science/">🌐</a>. It was last built on 2023-09-18.</p>
   </div>
 
   <div class="col-12 col-md-6 mt-3">

diff --git a/_book/version-control-with-git-and-github.html b/_book/version-control-with-git-and-github.html
@@ -370,7 +370,7 @@ online code
 <footer class="bg-primary text-light mt-5"><div class="container"><div class="row">
 
   <div class="col-12 col-md-6 mt-3">
-    <p>"<strong>Advanced <svg aria-hidden="true" role="img" viewbox="0 0 581 512" style="height:1em;width:1.13em;vertical-align:-0.125em;margin-left:auto;margin-right:auto;font-size:inherit;fill:currentColor;overflow:visible;position:relative;"><path d="M581 226.6C581 119.1 450.9 32 290.5 32S0 119.1 0 226.6C0 322.4 103.3 402 239.4 418.1V480h99.1v-61.5c24.3-2.7 47.6-7.4 69.4-13.9L448 480h112l-67.4-113.7c54.5-35.4 88.4-84.9 88.4-139.7zm-466.8 14.5c0-73.5 98.9-133 220.8-133s211.9 40.7 211.9 133c0 50.1-26.5 85-70.3 106.4-2.4-1.6-4.7-2.9-6.4-3.7-10.2-5.2-27.8-10.5-27.8-10.5s86.6-6.4 86.6-92.7-90.6-87.9-90.6-87.9h-199V361c-74.1-21.5-125.2-67.1-125.2-119.9zm225.1 38.3v-55.6c57.8 0 87.8-6.8 87.8 27.3 0 36.5-38.2 28.3-87.8 28.3zm-.9 72.5H365c10.8 0 18.9 11.7 24 19.2-16.1 1.9-33 2.8-50.6 2.9v-22.1z"></path></svg> course</strong>: <em>Tools for software development and performance</em>" was written by <strong><em>Robin Genuer</em></strong> <a href="https://robin.genuer.fr/">🌐</a> &amp; <strong><em>Boris Hejblum</em></strong> <a href="https://borishejblum.science/">🌐</a>. It was last built on 2023-09-07.</p>
+    <p>"<strong>Advanced <svg aria-hidden="true" role="img" viewbox="0 0 581 512" style="height:1em;width:1.13em;vertical-align:-0.125em;margin-left:auto;margin-right:auto;font-size:inherit;fill:currentColor;overflow:visible;position:relative;"><path d="M581 226.6C581 119.1 450.9 32 290.5 32S0 119.1 0 226.6C0 322.4 103.3 402 239.4 418.1V480h99.1v-61.5c24.3-2.7 47.6-7.4 69.4-13.9L448 480h112l-67.4-113.7c54.5-35.4 88.4-84.9 88.4-139.7zm-466.8 14.5c0-73.5 98.9-133 220.8-133s211.9 40.7 211.9 133c0 50.1-26.5 85-70.3 106.4-2.4-1.6-4.7-2.9-6.4-3.7-10.2-5.2-27.8-10.5-27.8-10.5s86.6-6.4 86.6-92.7-90.6-87.9-90.6-87.9h-199V361c-74.1-21.5-125.2-67.1-125.2-119.9zm225.1 38.3v-55.6c57.8 0 87.8-6.8 87.8 27.3 0 36.5-38.2 28.3-87.8 28.3zm-.9 72.5H365c10.8 0 18.9 11.7 24 19.2-16.1 1.9-33 2.8-50.6 2.9v-22.1z"></path></svg> course</strong>: <em>Tools for software development and performance</em>" was written by <strong><em>Robin Genuer</em></strong> <a href="https://robin.genuer.fr/">🌐</a> &amp; <strong><em>Boris Hejblum</em></strong> <a href="https://borishejblum.science/">🌐</a>. It was last built on 2023-09-18.</p>
   </div>
 
   <div class="col-12 col-md-6 mt-3">

diff --git a/_book/take-home-messages.html b/_book/take-home-messages.html
@@ -91,7 +91,7 @@
 <footer class="bg-primary text-light mt-5"><div class="container"><div class="row">
 
   <div class="col-12 col-md-6 mt-3">
-    <p>"<strong>Advanced <svg aria-hidden="true" role="img" viewbox="0 0 581 512" style="height:1em;width:1.13em;vertical-align:-0.125em;margin-left:auto;margin-right:auto;font-size:inherit;fill:currentColor;overflow:visible;position:relative;"><path d="M581 226.6C581 119.1 450.9 32 290.5 32S0 119.1 0 226.6C0 322.4 103.3 402 239.4 418.1V480h99.1v-61.5c24.3-2.7 47.6-7.4 69.4-13.9L448 480h112l-67.4-113.7c54.5-35.4 88.4-84.9 88.4-139.7zm-466.8 14.5c0-73.5 98.9-133 220.8-133s211.9 40.7 211.9 133c0 50.1-26.5 85-70.3 106.4-2.4-1.6-4.7-2.9-6.4-3.7-10.2-5.2-27.8-10.5-27.8-10.5s86.6-6.4 86.6-92.7-90.6-87.9-90.6-87.9h-199V361c-74.1-21.5-125.2-67.1-125.2-119.9zm225.1 38.3v-55.6c57.8 0 87.8-6.8 87.8 27.3 0 36.5-38.2 28.3-87.8 28.3zm-.9 72.5H365c10.8 0 18.9 11.7 24 19.2-16.1 1.9-33 2.8-50.6 2.9v-22.1z"></path></svg> course</strong>: <em>Tools for software development and performance</em>" was written by <strong><em>Robin Genuer</em></strong> <a href="https://robin.genuer.fr/">🌐</a> &amp; <strong><em>Boris Hejblum</em></strong> <a href="https://borishejblum.science/">🌐</a>. It was last built on 2023-09-07.</p>
+    <p>"<strong>Advanced <svg aria-hidden="true" role="img" viewbox="0 0 581 512" style="height:1em;width:1.13em;vertical-align:-0.125em;margin-left:auto;margin-right:auto;font-size:inherit;fill:currentColor;overflow:visible;position:relative;"><path d="M581 226.6C581 119.1 450.9 32 290.5 32S0 119.1 0 226.6C0 322.4 103.3 402 239.4 418.1V480h99.1v-61.5c24.3-2.7 47.6-7.4 69.4-13.9L448 480h112l-67.4-113.7c54.5-35.4 88.4-84.9 88.4-139.7zm-466.8 14.5c0-73.5 98.9-133 220.8-133s211.9 40.7 211.9 133c0 50.1-26.5 85-70.3 106.4-2.4-1.6-4.7-2.9-6.4-3.7-10.2-5.2-27.8-10.5-27.8-10.5s86.6-6.4 86.6-92.7-90.6-87.9-90.6-87.9h-199V361c-74.1-21.5-125.2-67.1-125.2-119.9zm225.1 38.3v-55.6c57.8 0 87.8-6.8 87.8 27.3 0 36.5-38.2 28.3-87.8 28.3zm-.9 72.5H365c10.8 0 18.9 11.7 24 19.2-16.1 1.9-33 2.8-50.6 2.9v-22.1z"></path></svg> course</strong>: <em>Tools for software development and performance</em>" was written by <strong><em>Robin Genuer</em></strong> <a href="https://robin.genuer.fr/">🌐</a> &amp; <strong><em>Boris Hejblum</em></strong> <a href="https://borishejblum.science/">🌐</a>. It was last built on 2023-09-18.</p>
   </div>
 
   <div class="col-12 col-md-6 mt-3">
